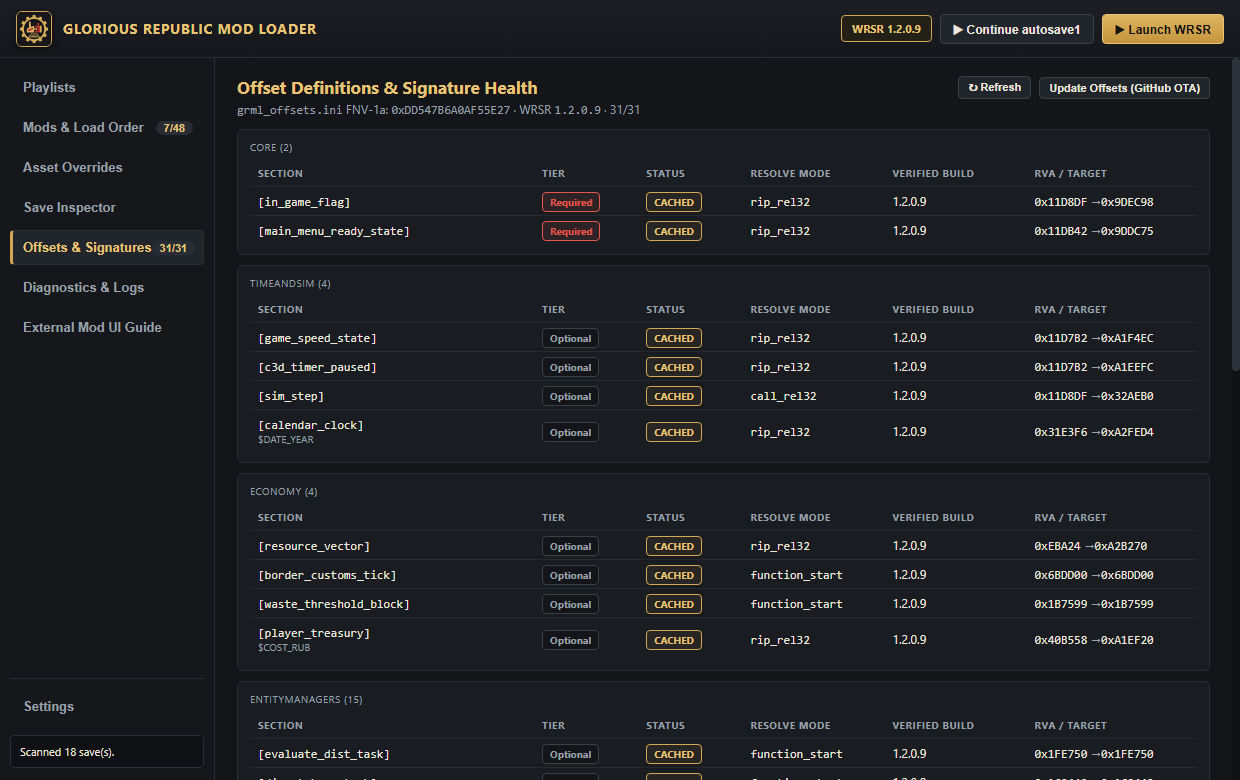
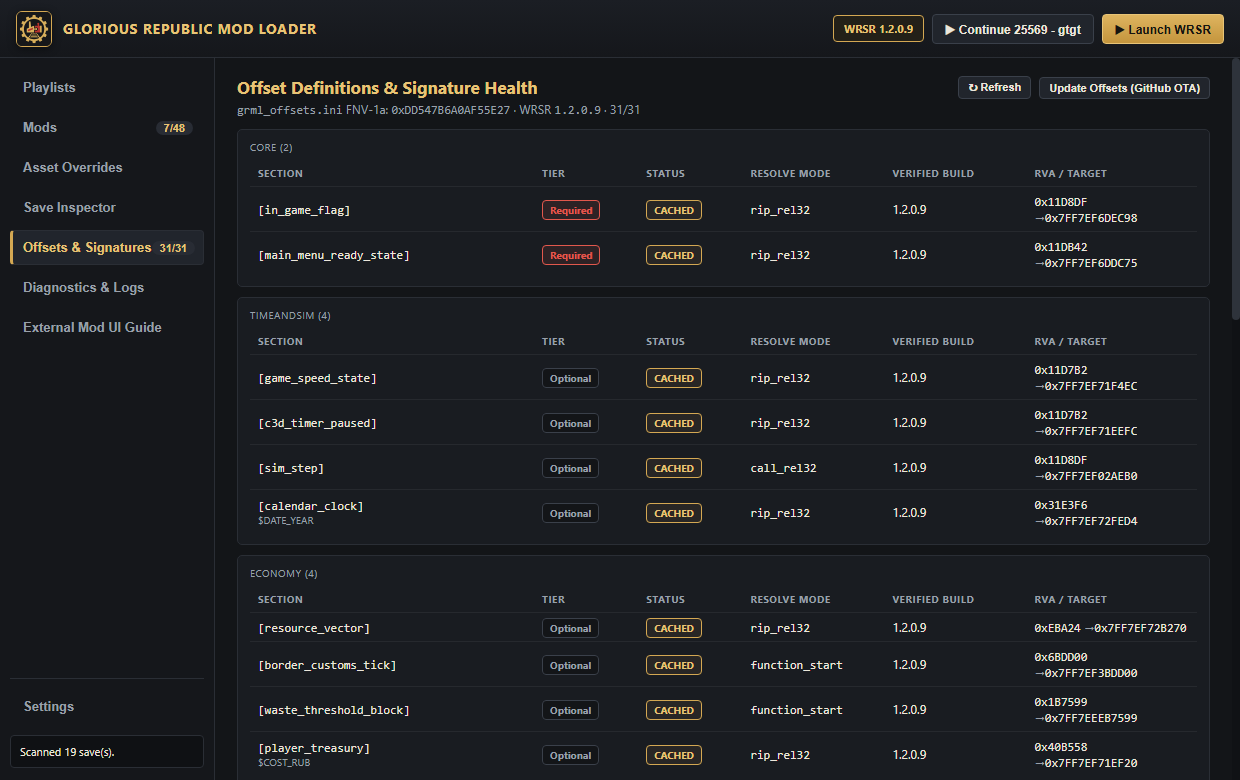
ui: rename Mods & Load Order nav tab to Mods across all locales and docs

diff --git a/scripts/capture_screenshots.ts b/scripts/capture_screenshots.ts
@@ -199,7 +199,7 @@ try {
     await sleep(300);
   };
 
-  await clickNav("Mods & Load Order");
+  await clickNav("Mods");
   await cdp.eval(`document.querySelector('.mod-row')?.click()`);
   await sleep(400);
   await cdp.screenshot(join(outDir, "01_mods.png"));

diff --git a/README.md b/README.md
@@ -4,7 +4,7 @@
 
 GRML lets you manage Steam Workshop (`784150`) and local DLL mods, tweak mod `.ini` settings from a clean UI or **in-game**, layer non-destructive asset packs, and diagnose crashes or missing Workshop items in your saves—while staying **100% compatible** with existing **RML v1**, **TesmioLoader v3/v4**, and standalone DLL mods.
 
-![GRML Launcher — Mods & Load Order](docs/screenshots/01_mods.png)
+![GRML Launcher — Mods](docs/screenshots/01_mods.png)
 
 ---
 
@@ -44,7 +44,7 @@ GRML lets you manage Steam Workshop (`784150`) and local DLL mods, tweak mod `.i
 1. Download and extract the latest **GRML** release (`GloriousRepublicModLoader.exe`, `grml_runtime.dll`, `grml_offsets.ini`) to any folder.
 2. Run **`GloriousRepublicModLoader.exe`**.
 3. Check the detected WRSR version in the top bar (if your game is in a custom location, set `SOVIET64.exe` under **Settings**).
-4. Enable the mods you want in **Mods & Load Order** (and configure any optional packs in **Asset Overrides**).
+4. Enable the mods you want in **Mods** (and configure any optional packs in **Asset Overrides**).
 5. Click **▶ Launch WRSR** (or **▶ Continue `<SaveName>`** to load your latest save directly). Press **`F9`** (or your custom hotkey) in-game to open **GRML Mod Settings**.
 
 ### Where Your Data Is Stored

diff --git a/docs/ARCHITECTURE.md b/docs/ARCHITECTURE.md
@@ -30,7 +30,7 @@ grml_runtime.dll (src/runtime/, injected into SOVIET64.exe)
 
 | View file | Nav label | Purpose |
 |---|---|---|
-| `ModsView.svelte` | Mods & Load Order | Enable/disable/reorder plugins, version badges, dependency checks |
+| `ModsView.svelte` | Mods | Enable/disable plugins, version badges, dependency & offset checks |
 | `PlaylistsView.svelte` | Playlists | Save/restore mod selection presets |
 | `OverridesView.svelte` | Asset Overrides | Media VFS pack priority & conflict inspection |
 | `SaveInspectorView.svelte` | Save Inspector | Scan saves, spot missing Workshop IDs, direct-to-save launch |
